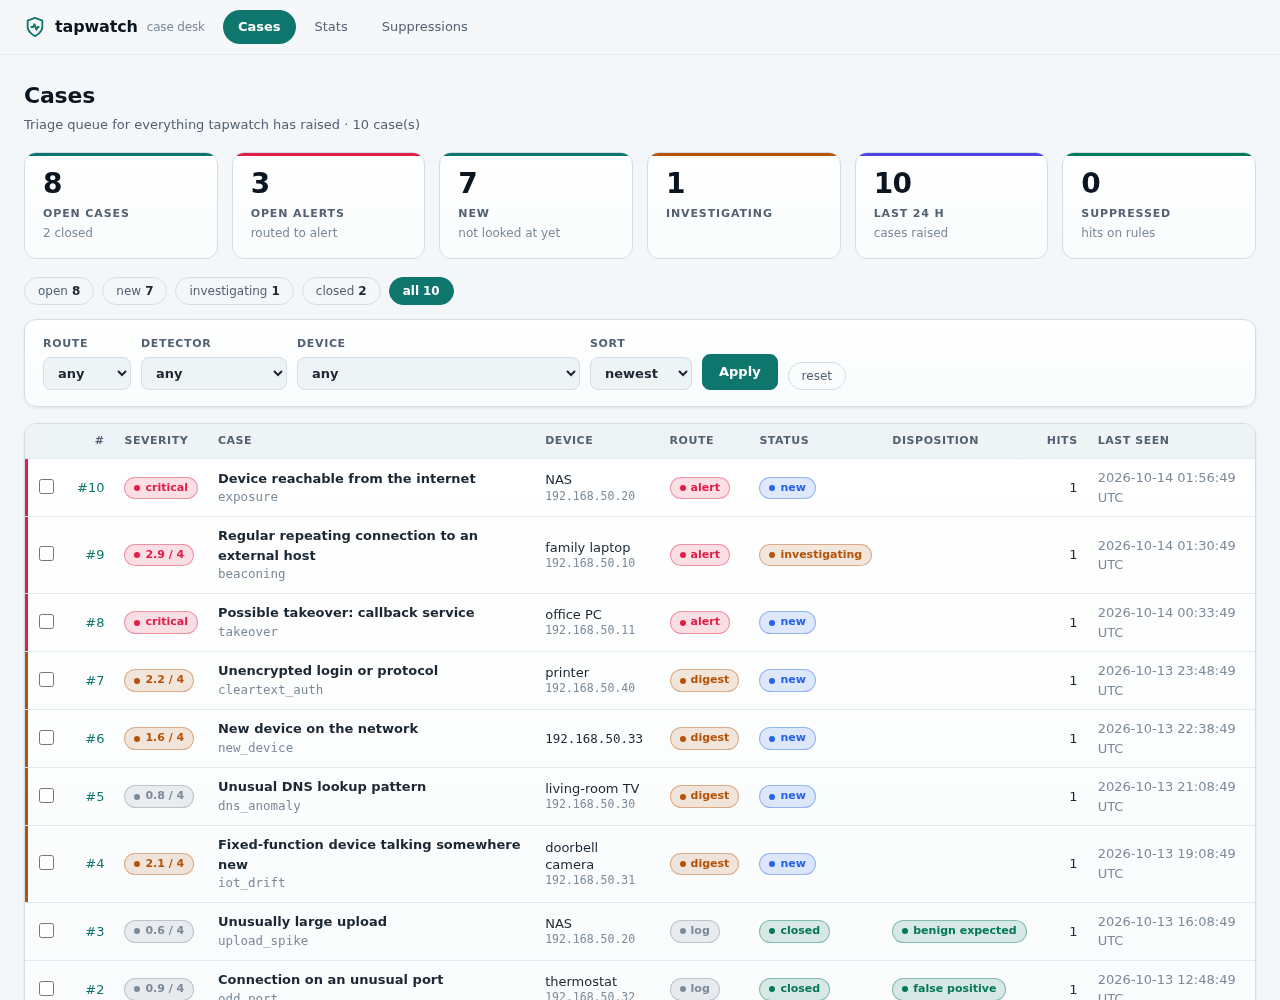
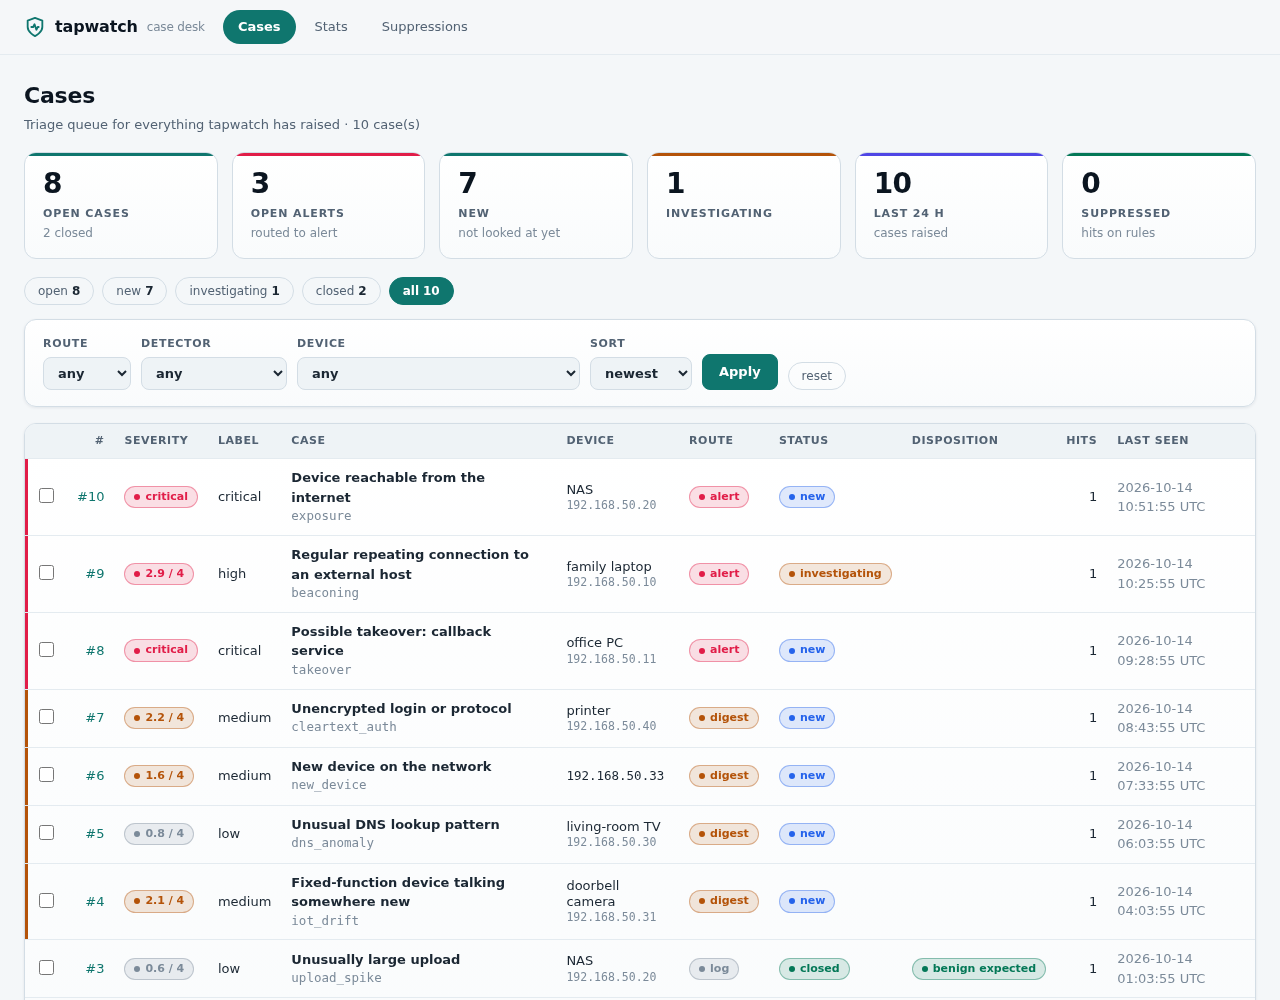
Case desk: a label column naming the severity level
The queue showed Jev's severity only as a score out of 4 ("2.9 / 4"),
which reads oddly without knowing the scale. A new "label" column next
to it names the level the score rounds to, using the same five levels
Jev is asked about (informational, low, medium, high, critical, taken
from triage.SEVERITY_LEVELS so there's one source). The score stays.

- Rounds half up, so 2.5 is "high", matching the badge's red from 2.5.
- Always-alert cases say "critical"; rules-only cases show a dash.
- README queue screenshot refreshed from tools/demo_desk.py.

225 tests pass.

diff --git a/src/tapwatch/ui.py b/src/tapwatch/ui.py
@@ -42,6 +42,7 @@ from .store import (
     describe_rule,
 )
 from .summarizer import Assets
+from .triage import SEVERITY_LEVELS
 
 log = logging.getLogger("tapwatch.ui")
 
@@ -296,6 +297,19 @@ def severity(row) -> tuple[str, str]:
     return "rules", "none"
 
 
+LEVEL_NAMES = [level.split(":")[0].lower() for level in SEVERITY_LEVELS]  # informational .. critical
+
+
+def severity_label(row) -> str:
+    """The named level a severity score rounds to (2.9 -> high), for the queue's label column."""
+    if row["must_alert"]:
+        return "critical"
+    sev = json.loads(row["verdict"]).get("severity") if row["verdict"] else None
+    if not isinstance(sev, (int, float)):
+        return "\u2013"  # rules-only: no score to name
+    return LEVEL_NAMES[min(len(LEVEL_NAMES) - 1, max(0, int(sev + 0.5)))]  # half up: 2.5 is high, like the badge
+
+
 def csrf_field(csrf: str) -> str:
     return f'<input type="hidden" name="csrf" value="{e(csrf)}">'
 
@@ -380,7 +394,7 @@ def render_queue(store: Store, assets: Assets, params: dict, csrf: str) -> tuple
             f'<tr class="r-{e("critical" if r["must_alert"] else r["route"])}">'
             f'<td><input type="checkbox" name="ids" value="{r["id"]}" aria-label="select case {r["id"]}"></td>'
             f'<td class="num hide-sm"><a href="/case/{r["id"]}">#{r["id"]}</a></td>'
-            f'<td>{badge(sev_cls, sev)}</td>'
+            f'<td>{badge(sev_cls, sev)}</td><td>{e(severity_label(r))}</td>'
             f'<td><a class="title" href="/case/{r["id"]}">{e(r["title"])}</a>'
             f'<div class="faint mono">{e(r["detector"])}</div></td>'
             f'<td>{device(assets, r["host"])}</td>'
@@ -389,7 +403,7 @@ def render_queue(store: Store, assets: Assets, params: dict, csrf: str) -> tuple
             f'<td class="num">{r["hits"]}</td><td class="faint hide-sm tnum">{e(when(r["last_ts"]))}</td></tr>')
     shown = f"showing {len(rows)} of {total}" if total > len(rows) else f"{total} case(s)"
     table = (f"""<form method="post" action="/bulk">{csrf_field(csrf)}
-<div class="card flush scroll"><table><thead><tr><th></th><th class="num hide-sm">#</th><th>severity</th><th>case</th><th>device</th>
+<div class="card flush scroll"><table><thead><tr><th></th><th class="num hide-sm">#</th><th>severity</th><th>label</th><th>case</th><th>device</th>
 <th class="hide-sm">route</th><th>status</th><th class="hide-sm">disposition</th><th class="num">hits</th><th class="hide-sm">last seen</th></tr></thead>
 <tbody>{"".join(body_rows)}</tbody></table></div>
 <div class="card bar"><b>Close selected</b> as

diff --git a/tests/test_cases.py b/tests/test_cases.py
@@ -497,3 +497,18 @@ def test_tailscale_mode_refuses_a_non_loopback_listener(tmp_path):
     with pytest.raises(SystemExit):
         ui.App(str(tmp_path / "t.db"), Assets(), host="0.0.0.0", token="abcde-fghij-klmno-pqrst",
                tailscale_users=["owner@example.com"])
+
+
+def test_queue_names_the_severity_level_next_to_the_score(tmp_path):
+    from tapwatch.models import Verdict
+
+    store = Store(str(tmp_path / "t.db"))
+    for sev in (0.2, 1.5, 2.49, 2.5, 2.9, 3.9):
+        make_case(store, host=f"192.168.50.{int(sev * 10)}", verdict=Verdict("benign", 0.9, sev, 0.8, 0.1, 0.1))
+    make_case(store, host="192.168.50.99", must_alert=True)
+    make_case(store, host="192.168.50.98")                           # rules-only: no score
+    labels = {r["id"]: ui.severity_label(r) for r in store.db.execute("SELECT * FROM cases")}
+    assert list(labels.values()) == ["informational", "medium", "medium", "high", "high", "critical",
+                                     "critical", "–"]
+    _, body = ui.render_queue(store, Assets(), {"status": ["all"]}, "x")
+    assert "<th>severity</th><th>label</th>" in body and "<td>high</td>" in body
